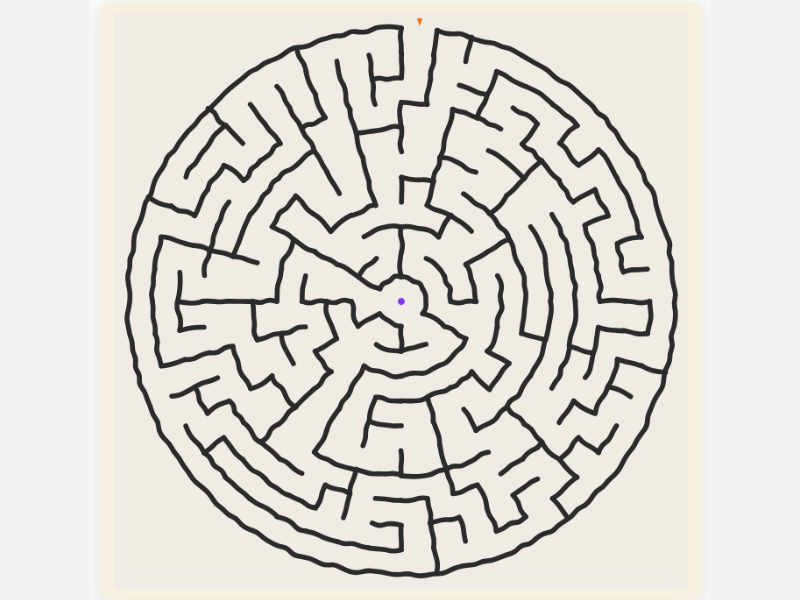
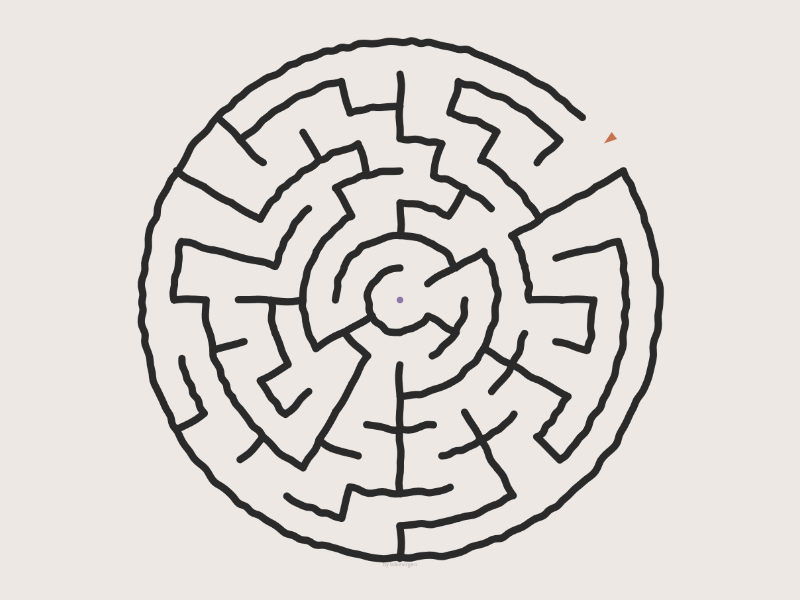
update

Changed region(s): [[0.1562, 0.03, 0.875, 0.99]]

diff --git a/maze.html b/maze.html
@@ -16,43 +16,46 @@
 <link href="https://fonts.googleapis.com/css2?family=Source+Sans+Pro:wght@400;600;700;900&display=swap" rel="stylesheet">
 <style>
 *{margin:0;padding:0;box-sizing:border-box}
-body{font-family:'Source Sans Pro',sans-serif;background:#FAFAF8;color:#2a2a2a;min-height:100vh;display:flex;flex-direction:column;align-items:center;padding:1.5rem 1rem}
+body{font-family:'Source Sans Pro',sans-serif;background:#FAFAF8;color:#2a2a2a;min-height:100vh;display:flex;flex-direction:column;align-items:center;padding:0.75rem 1rem}
 .app{max-width:860px;width:100%}
-h1{font-weight:900;font-size:2rem;letter-spacing:0.04em;text-align:center;margin-bottom:0.15rem}
-.subtitle{text-align:center;color:#888;font-size:0.95rem;margin-bottom:1.5rem;font-weight:400}
+h1{font-weight:900;font-size:1.25rem;letter-spacing:0.04em;text-align:center;margin-bottom:0.5rem}
 .control-row{display:flex;flex-wrap:wrap;gap:0.5rem;justify-content:center;align-items:center;margin-bottom:0.75rem}
 .control-row label{font-weight:700;font-size:0.75rem;text-transform:uppercase;letter-spacing:0.08em;color:#999;margin-right:0.15rem}
-.pill{font-family:inherit;font-weight:600;font-size:0.8rem;padding:0.4rem 0.9rem;border:2px solid #ddd;border-radius:20px;background:#fff;color:#777;cursor:pointer;transition:all 0.2s}
+.pill{font-family:inherit;font-weight:600;font-size:0.72rem;padding:0.28rem 0.65rem;border:1.5px solid #ddd;border-radius:14px;background:#fff;color:#777;cursor:pointer;transition:all 0.2s}
 .pill:hover{border-color:#aaa;color:#444}
-.pill.active{border-color:#2a2a2a;background:#2a2a2a;color:#fff}
+.pill.active{border-color:#2a2a2a;background:#2a2a2a;color:#fff;border-width:1.5px}
 .pill.diff-0.active{border-color:#2ecc71;background:#2ecc71;color:#fff}
 .pill.diff-1.active{border-color:#f39c12;background:#f39c12;color:#fff}
 .pill.diff-2.active{border-color:#e67e22;background:#e67e22;color:#fff}
 .pill.diff-3.active{border-color:#e74c3c;background:#e74c3c;color:#fff}
-.canvas-wrap{background:#f5f0e0;border-radius:14px;padding:16px;box-shadow:0 6px 30px rgba(0,0,0,0.1);margin:1rem 0;overflow:hidden;display:flex;justify-content:center}
+.canvas-wrap{background:#f5f0e0;border-radius:14px;padding:12px;box-shadow:0 6px 30px rgba(0,0,0,0.1);margin:0.5rem 0;overflow:hidden;display:flex;justify-content:center}
 #mazeCanvas{display:block;max-width:100%;height:auto;border-radius:6px}
 .actions{display:flex;gap:0.6rem;justify-content:center;margin-bottom:0.75rem;flex-wrap:wrap}
-.btn{font-family:inherit;font-weight:700;font-size:0.85rem;padding:0.55rem 1.3rem;border:2px solid #2a2a2a;border-radius:8px;background:#fff;color:#2a2a2a;cursor:pointer;transition:all 0.2s;letter-spacing:0.02em}
+.btn{font-family:inherit;font-weight:600;font-size:0.72rem;padding:0.3rem 0.8rem;border:1.5px solid #2a2a2a;border-radius:6px;background:#fff;color:#2a2a2a;cursor:pointer;transition:all 0.2s;letter-spacing:0.02em}
 .btn:hover{background:#2a2a2a;color:#fff;transform:translateY(-1px);box-shadow:0 4px 12px rgba(0,0,0,0.15)}
-.btn.active{background:#7C3AED;border-color:#7C3AED;color:#fff}
+.btn.active{background:#8978A5;border-color:#8978A5;color:#fff}
 .legend{display:flex;gap:1.2rem;justify-content:center;font-size:0.75rem;color:#999;margin-top:0.25rem}
 .legend span{display:flex;align-items:center;gap:0.3rem}
 .dot{width:10px;height:10px;border-radius:50%;display:inline-block}
-.dot.s{background:#F97316}.dot.e{background:#7C3AED}.dot.p{background:#00D4FF}
-@media(max-width:600px){h1{font-size:1.5rem}.pill{font-size:0.72rem;padding:0.35rem 0.7rem}.canvas-wrap{padding:10px}}
+.dot.s{background:#C4724F}.dot.e{background:#8978A5}.dot.p{background:#00D4FF}
+.slider-row{display:flex;align-items:center;justify-content:center;gap:0.5rem;margin-bottom:0.5rem}
+.slider-row label{font-weight:700;font-size:0.75rem;text-transform:uppercase;letter-spacing:0.08em;color:#999}
+.slider-row input[type=range]{width:120px;accent-color:#2a2a2a;cursor:pointer}
+.slider-row .val{font-size:0.72rem;color:#777;min-width:1.5em;text-align:center}
+@media(max-width:600px){h1{font-size:1.1rem}.pill{font-size:0.65rem;padding:0.22rem 0.5rem}.canvas-wrap{padding:10px}}
 </style>
 </head>
 <body>
 <div class="app">
   <h1>Maze Generator</h1>
-  <p class="subtitle" style="color:#aaa;font-size:0.8rem;">&copy; isikevirgen</p>
 
   <div class="control-row">
     <label>Shape:</label>
     <button class="pill shape active" data-shape="rectangle">▭ Rectangle</button>
+    <button class="pill shape" data-shape="square">◻ Square</button>
     <button class="pill shape" data-shape="circle">○ Circle</button>
     <button class="pill shape" data-shape="heart">♥ Heart</button>
-    <button class="pill shape" data-shape="triangle">△ Triangle</button>
+    <button class="pill shape" data-shape="triangle">▽ Triangle</button>
   </div>
 
   <div class="control-row">
@@ -61,6 +64,12 @@ h1{font-weight:900;font-size:2rem;letter-spacing:0.04em;text-align:center;margin
     <button class="pill diff diff-1" data-diff="1">Medium</button>
     <button class="pill diff diff-2" data-diff="2">Hard</button>
     <button class="pill diff diff-3" data-diff="3">Expert</button>
+  </div>
+
+  <div class="slider-row">
+    <label>Stroke:</label>
+    <input type="range" id="strokeSlider" min="2" max="14" value="7" step="1">
+    <span class="val" id="strokeVal">7</span>
   </div>
 
   <div class="actions">
@@ -86,11 +95,13 @@ h1{font-weight:900;font-size:2rem;letter-spacing:0.04em;text-align:center;margin
 // ─── CONFIG ─────────────────────────────────────────
 var WALL_COLOR = '#2a2a2a';
 var WALL_WIDTH = 7;
+var strokeSlider = document.getElementById('strokeSlider');
+var strokeVal = document.getElementById('strokeVal');
 var WOBBLE = 3.2;
 var PATH_WIDTH = 3.5;
-var ARROW_SIZE = 7;
-var START_COLOR = '#F97316';
-var END_COLOR = '#7C3AED';
+var ARROW_SIZE = 12;
+var START_COLOR = '#C4724F';
+var END_COLOR = '#8978A5';
 var PATH_COLOR = '#00D4FF';
 
 var PALETTES = [
@@ -175,11 +186,12 @@ function drawWobblePath(pts,color,width){
   ctx.stroke();
 }
 
+function getStrokeWidth(){ return parseInt(strokeSlider.value)||WALL_WIDTH; }
 function drawLine(x1,y1,x2,y2){
-  drawWobblePath(getWobbleLinePoints(x1,y1,x2,y2), WALL_COLOR, WALL_WIDTH);
+  drawWobblePath(getWobbleLinePoints(x1,y1,x2,y2), WALL_COLOR, getStrokeWidth());
 }
 function drawArc(cx,cy,r,a1,a2){
-  drawWobblePath(getWobbleArcPoints(cx,cy,r,a1,a2), WALL_COLOR, WALL_WIDTH);
+  drawWobblePath(getWobbleArcPoints(cx,cy,r,a1,a2), WALL_COLOR, getStrokeWidth());
 }
 
 function drawArrow(x,y,angle,color){
@@ -204,11 +216,12 @@ function drawMarker(x,y,color,r){
 }
 
 // ─── GENERIC GENERATION (Recursive Backtracker) ────
-function generate(numCells,adjList,startCell){
-  var openWalls = {};
-  var visited = new Uint8Array(numCells);
-  var stack = [];
-  var cur = startCell;
+function generateDFS(numCells,adjList){
+  // DFS from random cell — long winding paths, good for regular grids
+  var openWalls={};
+  var visited=new Uint8Array(numCells);
+  var stack=[];
+  var cur=Math.floor(Math.random()*numCells);
   visited[cur]=1;
   var count=1;
   while(count<numCells){
@@ -226,6 +239,41 @@ function generate(numCells,adjList,startCell){
     } else if(stack.length>0){
       cur=stack.pop();
     } else break;
+  }
+  return openWalls;
+}
+function generateKruskal(numCells,adjList){
+  // Kruskal's — uniform branching, more dead ends, good for irregular shapes
+  var parent=new Int32Array(numCells);
+  var rnk=new Uint8Array(numCells);
+  for(var i=0;i<numCells;i++) parent[i]=i;
+  function find(x){
+    while(parent[x]!==x){parent[x]=parent[parent[x]];x=parent[x];}
+    return x;
+  }
+  function unite(a,b){
+    var ra=find(a),rb=find(b);
+    if(ra===rb) return false;
+    if(rnk[ra]<rnk[rb]) parent[ra]=rb;
+    else if(rnk[ra]>rnk[rb]) parent[rb]=ra;
+    else{parent[rb]=ra;rnk[ra]++;}
+    return true;
+  }
+  var edges=[],seen={};
+  for(var c=0;c<numCells;c++){
+    for(var j=0;j<adjList[c].length;j++){
+      var nb=adjList[c][j],key=wallKey(c,nb);
+      if(!seen[key]){seen[key]=true;edges.push([c,nb]);}
+    }
+  }
+  for(var i=edges.length-1;i>0;i--){
+    var r=Math.floor(Math.random()*(i+1));
+    var tmp=edges[i];edges[i]=edges[r];edges[r]=tmp;
+  }
+  var openWalls={};
+  for(var i=0;i<edges.length;i++){
+    if(unite(edges[i][0],edges[i][1]))
+      openWalls[wallKey(edges[i][0],edges[i][1])]=true;
   }
   return openWalls;
 }
@@ -254,6 +302,38 @@ function solve(numCells,adjList,start,end,openWalls){
   return path.reverse();
 }
 
+// ─── FIND FARTHEST PAIR (for optimal start/end) ───
+function bfsDist(numCells,adjList,openWalls,src){
+  var dist=new Int32Array(numCells).fill(-1);
+  dist[src]=0;
+  var q=[src];
+  while(q.length>0){
+    var cur=q.shift();
+    for(var i=0;i<adjList[cur].length;i++){
+      var nb=adjList[cur][i];
+      if(dist[nb]===-1&&openWalls[wallKey(cur,nb)]){
+        dist[nb]=dist[cur]+1;
+        q.push(nb);
+      }
+    }
+  }
+  return dist;
+}
+function farthestPair(numCells,adjList,openWalls,candidates){
+  // Two-pass BFS on candidate set to find diameter endpoints
+  var d1=bfsDist(numCells,adjList,openWalls,candidates[0]);
+  var bestA=candidates[0],bestD=0;
+  for(var i=0;i<candidates.length;i++){
+    if(d1[candidates[i]]>bestD){bestD=d1[candidates[i]];bestA=candidates[i];}
+  }
+  var d2=bfsDist(numCells,adjList,openWalls,bestA);
+  var bestB=bestA; bestD=0;
+  for(var i=0;i<candidates.length;i++){
+    if(d2[candidates[i]]>bestD){bestD=d2[candidates[i]];bestB=candidates[i];}
+  }
+  return [bestA,bestB];
+}
+
 // ─── SOLUTION PATH RENDERER ────────────────────────
 function drawSolutionPath(cellPos,path){
   if(path.length<2) return;
@@ -276,9 +356,11 @@ function drawSolutionPath(cellPos,path){
   ctx.globalAlpha=1;
 }
 
-// ─── RECTANGLE MAZE ────────────────────────────────
-function buildRectMaze(diff,W,H){
-  var configs=[{c:6,r:4},{c:12,r:8},{c:18,r:12},{c:26,r:17}];
+// ─── RECTANGLE / SQUARE MAZE ──────────────────────
+var RECT_CONFIGS=[{c:6,r:4},{c:12,r:8},{c:18,r:12},{c:26,r:17}];
+var SQUARE_CONFIGS=[{c:5,r:5},{c:10,r:10},{c:15,r:15},{c:22,r:22}];
+function buildRectMaze(diff,W,H,square){
+  var configs=square?SQUARE_CONFIGS:RECT_CONFIGS;
   var cfg=configs[diff];
   var cols=cfg.c, rows=cfg.r;
   var pad=22;
@@ -294,7 +376,7 @@ function buildRectMaze(diff,W,H){
     adj.push(nb);
   }
   var startCell=0, endCell=N-1;
-  var openWalls=generate(N,adj,startCell);
+  var openWalls=generateKruskal(N,adj);
   var solution=solve(N,adj,startCell,endCell,openWalls);
   var cellPos=[];
   for(var i=0;i<N;i++){
@@ -383,11 +465,20 @@ function buildCircleMaze(diff,W,H){
     }
   }
 
-  var startSector=0; // entry at sector 0 of outermost ring (top)
-  var startCell=cellId(numRings,startSector);
   var endCell=0; // center
 
-  var openWalls=generate(total,adj,startCell);
+  var openWalls=generateKruskal(total,adj);
+
+  // Find the outer-ring cell farthest from center in the maze
+  var outerCells=[];
+  for(var s=0;s<sectors[numRings];s++) outerCells.push(cellId(numRings,s));
+  var dists=bfsDist(total,adj,openWalls,endCell);
+  var startCell=outerCells[0], bestD=0;
+  for(var i=0;i<outerCells.length;i++){
+    if(dists[outerCells[i]]>bestD){bestD=dists[outerCells[i]];startCell=outerCells[i];}
+  }
+  var startSector=startCell-baseIdx[numRings];
+
   var solution=solve(total,adj,startCell,endCell,openWalls);
 
   // Cell positions
@@ -405,9 +496,9 @@ function buildCircleMaze(diff,W,H){
 
   function isOpen(a,b){return !!openWalls[wallKey(a,b)];}
 
-  // Entry gap: midpoint of sector 0 on outermost ring
+  // Entry gap: midpoint of startSector on outermost ring
   var outerR=(numRings+1)*ringW;
-  var gapMidAngle=-Math.PI/2+Math.PI/sectors[numRings];
+  var gapMidAngle=2*Math.PI*(startSector+0.5)/sectors[numRings]-Math.PI/2;
 
   return {
     cellPos:cellPos, solution:solution,
@@ -470,8 +561,7 @@ var SHAPE_TESTS={
     return t*t*t-x*x*y*y*y<=0;
   },
   triangle:function(nx,ny){
-    var h=0.95;
-    return pointInPolygon(nx,ny,[[0,h],[-h,-h*0.55],[h,-h*0.55]]);
+    return pointInPolygon(nx,ny,[[0,0.98],[-0.98,-0.98],[0.98,-0.98]]);
   }
 };
 
@@ -560,24 +650,18 @@ function buildMaskedMaze(shape,diff,W,H){
 
   var M=filtCells.length;
 
-  // Find start (leftmost edge) and end (rightmost edge)
-  // Strong column bias so entry/exit are on left/right sides
-  var startI=0,endI=0;
-  var bestStartScore=-Infinity, bestEndScore=-Infinity;
+  // Kruskal's for irregular shapes — more dead ends in narrow regions
+  var openWalls=generateKruskal(M,newAdj);
+
+  // Collect border cells (cells missing at least one neighbor)
+  var borderCells=[];
   for(var i=0;i<M;i++){
-    var oi=filtCells[i];
-    var gi=activeCells[oi];
-    var c=gi%cols, r=Math.floor(gi/cols);
-    // Prefer cells closest to vertical center for clean side entry
-    var midR=rows/2;
-    var centerBonus=-Math.abs(r-midR)*0.3;
-    var ss=-c*3+centerBonus; // strong left bias
-    var es=c*3+centerBonus;  // strong right bias
-    if(ss>bestStartScore){bestStartScore=ss;startI=i;}
-    if(es>bestEndScore){bestEndScore=es;endI=i;}
+    if(newAdj[i].length<4) borderCells.push(i);
   }
 
-  var openWalls=generate(M,newAdj,startI);
+  // Pick start/end as the two border cells farthest apart in the maze
+  var pair=farthestPair(M,newAdj,openWalls,borderCells);
+  var startI=pair[0], endI=pair[1];
   var solution=solve(M,newAdj,startI,endI,openWalls);
 
   var cellPos=[];
@@ -617,8 +701,8 @@ function buildMaskedMaze(shape,diff,W,H){
   var gapOffsets=[[0,-1],[1,0],[0,1],[-1,0]]; // dx,dy per direction
   var sOff=gapOffsets[startGapDir]||[0,-1];
   var eOff=gapOffsets[endGapDir]||[1,0];
-  var sArrowPos={x:startCPos.x+sOff[0]*cellS*0.7, y:startCPos.y+sOff[1]*cellS*0.7};
-  var eArrowPos={x:endCPos.x+eOff[0]*cellS*0.7, y:endCPos.y+eOff[1]*cellS*0.7};
+  var sArrowPos={x:startCPos.x+sOff[0]*cellS*0.45, y:startCPos.y+sOff[1]*cellS*0.45};
+  var eArrowPos={x:endCPos.x+eOff[0]*cellS*0.45, y:endCPos.y+eOff[1]*cellS*0.45};
   // Start arrow points INTO maze, End arrow points OUT of maze
   // dir 0=top, 1=right, 2=bottom, 3=left
   var inwardAngles=[Math.PI/2, Math.PI, -Math.PI/2, 0];
@@ -664,7 +748,7 @@ function buildMaskedMaze(shape,diff,W,H){
 }
 
 // ─── BUILDER DISPATCH ──────────────────────────────
-var SHAPE_RATIOS={rectangle:1.44,circle:1,heart:0.92,triangle:1.1};
+var SHAPE_RATIOS={rectangle:1.44,square:1,circle:1,heart:0.92,triangle:1.1};
 
 function buildMaze(){
   wobbleCache={};
@@ -684,7 +768,8 @@ function buildMaze(){
   canvas.height=ch*dpr;
   ctx.setTransform(dpr,0,0,dpr,0,0);
 
-  if(currentShape==='rectangle') currentMaze=buildRectMaze(currentDiff,cw,ch);
+  if(currentShape==='rectangle') currentMaze=buildRectMaze(currentDiff,cw,ch,false);
+  else if(currentShape==='square') currentMaze=buildRectMaze(currentDiff,cw,ch,true);
   else if(currentShape==='circle') currentMaze=buildCircleMaze(currentDiff,cw,ch);
   else currentMaze=buildMaskedMaze(currentShape,currentDiff,cw,ch);
 
@@ -713,6 +798,15 @@ function render(){
   if(showSolution){
     drawSolutionPath(currentMaze.cellPos, currentMaze.solution);
   }
+
+  // Watermark
+  ctx.save();
+  ctx.font='600 9px Source Sans Pro, sans-serif';
+  ctx.fillStyle='rgba(0,0,0,0.18)';
+  ctx.textAlign='center';
+  ctx.textBaseline='bottom';
+  ctx.fillText('by isikevirgen', w/2, h-6);
+  ctx.restore();
 }
 
 // ─── EVENT HANDLERS ────────────────────────────────
@@ -732,6 +826,11 @@ document.querySelectorAll('.pill.diff').forEach(function(btn){
     currentDiff=parseInt(btn.dataset.diff);
     buildMaze();
   });
+});
+
+strokeSlider.addEventListener('input',function(){
+  strokeVal.textContent=this.value;
+  render();
 });
 
 document.getElementById('btnNew').addEventListener('click',buildMaze);
